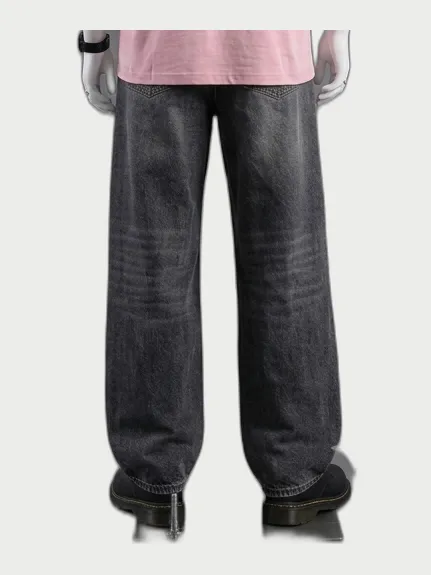
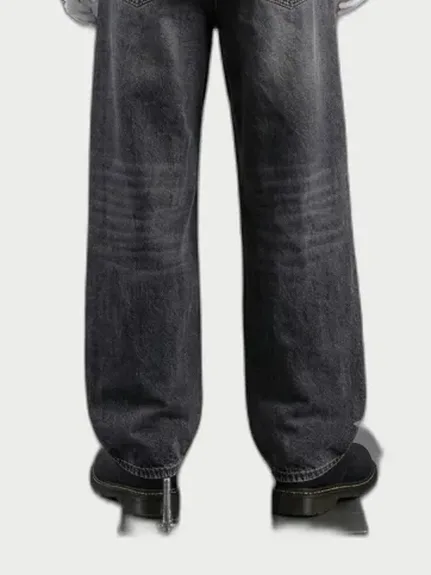
Show only the piece itself in the demo photos
Jeans photos are cropped to just the jeans and shirt and tee photos to just
the top, so no product shows a second item. Full outfit photos now only go
to combo or set categories, and a product's name is used when its category
doesn't say what it is.

Claude-Session: https://claude.ai/code/session_01U6ZZnEL7wKenyhxfn2pqDd

diff --git a/src/data/admin.ts b/src/data/admin.ts
@@ -177,11 +177,15 @@ const DEMO_SETS = {
 const DEMO_CLOSEUPS = new Set(['black-tee', 'blue-jeans', 'beige-shirt', 'white-jeans'])
 
 /** Which kind of demo photo suits a type of clothing. */
-function demoKindFor(category: string): keyof typeof DEMO_SETS {
-  if (/t-?shirt|tee|polo|top/i.test(category)) return 'tee'
-  if (/jean|trouser|pant|short|cargo|chino|jogger|bottom|denim/i.test(category)) return 'jeans'
-  if (/shirt|jacket|hoodie|sweat|kurta|blazer|coat|overshirt/i.test(category)) return 'shirt'
-  return 'look'
+function demoKindFor(category: string, name = ''): keyof typeof DEMO_SETS {
+  // Full outfits only for combos and sets; everything else shows just its own piece.
+  if (/combo|co-?ord|set|look|outfit/i.test(category)) return 'look'
+  for (const text of [category, name]) {
+    if (/t-?shirt|tee|polo|top/i.test(text)) return 'tee'
+    if (/jean|trouser|pant|short|cargo|chino|jogger|bottom|denim/i.test(text)) return 'jeans'
+    if (/shirt|jacket|hoodie|sweat|kurta|blazer|coat|overshirt/i.test(text)) return 'shirt'
+  }
+  return 'shirt'
 }
 
 /**
@@ -202,7 +206,7 @@ export async function replaceWithDemoPhotos(onProgress: (done: number, total: nu
   }
 
   const categories = unwrap(await supabase.from('categories').select('id, name, slug')) as { id: string; name: string; slug: string }[]
-  const products = unwrap(await supabase.from('products').select('id, category_id')) as { id: string; category_id: string }[]
+  const products = unwrap(await supabase.from('products').select('id, name, category_id')) as { id: string; name: string; category_id: string }[]
   const typeOf = new Map(categories.map((c) => [c.id, `${c.slug} ${c.name}`]))
 
   // Download each demo photo once and make its small copy once.
@@ -222,7 +226,7 @@ export async function replaceWithDemoPhotos(onProgress: (done: number, total: nu
   const turn = { tee: 0, shirt: 0, jeans: 0, look: 0 }
   for (const [i, p] of products.entries()) {
     onProgress(i, products.length)
-    const kind = demoKindFor(typeOf.get(p.category_id) ?? '')
+    const kind = demoKindFor(typeOf.get(p.category_id) ?? '', p.name)
     const sets = DEMO_SETS[kind]
     const set = sets[turn[kind]++ % sets.length]
     const views = DEMO_CLOSEUPS.has(set) ? ['front', 'back', 'closeup'] : ['front', 'back']
